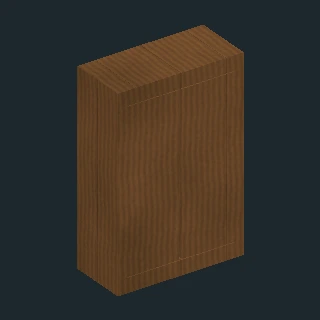
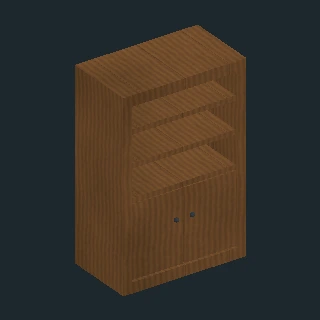
Refine thin door with knobs, deep shelved cabinet and horizontal floor slab

diff --git a/sys/android/app/src/test/java/com/example/realms/BuildCatalogTest.kt b/sys/android/app/src/test/java/com/example/realms/BuildCatalogTest.kt
@@ -6,7 +6,7 @@ class BuildCatalogTest {
         val items=BuildCatalog.entries
         assertEquals(listOf(0,1,2,3,4,5,6,7,9,10,11,8),items.map { it.nativeType })
         assertEquals(12,items.map { it.asset }.toSet().size)
-        assertEquals(listOf("Бетонный блок","Пол","Окно","Дверь","Стол","Стул","Шкаф","Диван","Деревянный блок","Кирпичный блок","Металлический блок","УАЗ-469"),items.map { it.label })
+        assertEquals(listOf("Бетонный блок","Плита (пол)","Окно","Дверь","Стол","Стул","Шкаф","Диван","Деревянный блок","Кирпичный блок","Металлический блок","УАЗ-469"),items.map { it.label })
         assertEquals(listOf(1,1,1,5,5,5,5,6,5,2,3,-1),items.map { it.defaultSurface })
         assertTrue(items.all { it.asset.startsWith("catalog/") || it.asset.startsWith("textures/") })
     }

diff --git a/sys/android/app/src/main/java/com/example/realms/BuildCatalog.kt b/sys/android/app/src/main/java/com/example/realms/BuildCatalog.kt
@@ -6,7 +6,7 @@ object BuildCatalog {
     // IDs match World::bounds and the spawn-gun selection protocol.
     val entries = listOf(
         CatalogItem(0, "Бетонный блок", "catalog/rendered/wall.webp"),
-        CatalogItem(1, "Пол", "catalog/rendered/floor.webp"),
+        CatalogItem(1, "Плита (пол)", "catalog/rendered/floor.webp"),
         CatalogItem(2, "Окно", "catalog/rendered/window.webp"),
         CatalogItem(3, "Дверь", "catalog/rendered/door.webp",5),
         CatalogItem(4, "Стол", "catalog/rendered/table.webp",5),

diff --git a/sys/android/app/src/main/cpp/ObjectMesh.h b/sys/android/app/src/main/cpp/ObjectMesh.h
@@ -11,20 +11,42 @@ inline void appendObject(std::vector<MeshVertex>&v,const sandbox::Object&o,bool 
   for(int i=0;i<o.rotation;i++){float old=x;x=z;z=-old;std::swap(w,d);}
   appendCube(v,{o.x+x,y+o.y,o.z+z,w,h,d,r,g,b,material>=0?material:o.type==4||o.type==5?sandbox::Wood:o.type==7?sandbox::Fabric:sandbox::Plain});
  };
- if(o.type==4||o.type==5){bool table=o.type==4;float w=table?1.8f:.6f,d=table?1.f:.65f,top=table?.82f:.46f;
+ // Small smooth knobs, including normals and spherical UVs, rotated with the whole object.
+ auto knob=[&](float x,float y,float z,float radius){
+  constexpr int rings=6,sides=12;
+  auto vertex=[&](int ring,int side){
+   float a=3.14159265f*ring/rings,b=6.2831853f*side/sides;
+   float nx=std::sin(a)*std::cos(b),ny=std::cos(a),nz=std::sin(a)*std::sin(b);
+   float px=x+radius*nx,pz=z+radius*nz;
+   for(int turn=0;turn<o.rotation;turn++){float old=px;px=pz;pz=-old;old=nx;nx=nz;nz=-old;}
+   return MeshVertex{o.x+px,o.y+y+radius*ny,o.z+pz,.22f,.24f,.25f,nx,ny,nz,float(side)/sides,float(ring)/rings,float(Plain)};
+  };
+  for(int r=0;r<rings;r++)for(int s=0;s<sides;s++){
+   for(auto vtx:{vertex(r,s),vertex(r+1,s),vertex(r+1,s+1),vertex(r,s),vertex(r+1,s+1),vertex(r,s+1)})v.push_back(vtx);
+  }
+ };
+ if(o.type==3){
+  part(0,1.15f,0,1.1f,2.3f,.045f,1,1,1,Wood);
+  for(int side:{-1,1}){part(.4f,1.05f,side*.035f,.075f,.14f,.025f,.22f,.24f,.25f,Plain);knob(.4f,1.05f,side*.046f,.024f);}
+ }else if(o.type==4||o.type==5){bool table=o.type==4;float w=table?1.8f:.6f,d=table?1.f:.65f,top=table?.82f:.46f;
   part(0,top,0,w,.15f,d,.54f,.4f,.27f);
   for(int a:{-1,1})for(int b:{-1,1})part(a*(w/2-.07f),top/2,b*(d/2-.07f),.1f,top,.1f,.43f,.31f,.2f);
   if(!table)part(0,.79f,-.27f,w,.6f,.12f,.54f,.4f,.27f);
  }else if(o.type==6){
-  // Cabinet carcass and separate inset doors instead of one solid cuboid.
-  part(0,.08f,0,1.4f,.16f,.65f,1,1,1,Wood);part(0,2.02f,0,1.4f,.16f,.65f,1,1,1,Wood);
-  for(int side:{-1,1}){part(side*.65f,1.05f,0,.1f,1.8f,.65f,1,1,1,Wood);part(side*.34f,1.05f,.29f,.65f,1.76f,.07f,1,1,1,Wood);}
-  part(0,1.05f,-.29f,1.2f,1.8f,.07f,1,1,1,Wood);
+  // Deep carcass with an open upper shelving bay and lower cupboard doors.
+  part(0,.06f,0,1.4f,.12f,.8f,1,1,1,Wood);part(0,2.04f,0,1.4f,.12f,.8f,1,1,1,Wood);
+  for(int side:{-1,1}){
+   part(side*.65f,1.05f,0,.1f,1.86f,.8f,1,1,1,Wood);
+   part(side*.315f,.53f,.35f,.61f,.8f,.06f,1,1,1,Wood);
+   knob(side*.09f,.62f,.39f,.025f);
+  }
+  part(0,1.05f,-.37f,1.2f,1.86f,.06f,1,1,1,Wood);
+  for(float y:{.96f,1.33f,1.69f})part(0,y,0,1.2f,.055f,.73f,1,1,1,Wood);
  }else if(o.type==2){
   for(int side:{-1,1}){part(side*.96f,1.2f,0,.08f,2.4f,.22f,.68f,.69f,.63f,sandbox::Wood);part(0,1.2f+side*1.16f,0,2,.08f,.22f,.68f,.69f,.63f,sandbox::Wood);}part(0,1.2f,0,.06f,2.4f,.2f,.68f,.69f,.63f,sandbox::Wood);part(0,1.2f,0,1.84f,2.24f,.05f,1,1,1,sandbox::Glass);
  }else if(o.type==7){part(0,.32f,0,2.3f,.6f,.95f,.33f,.4f,.36f);part(0,.78f,-.38f,2.3f,.44f,.2f,.33f,.4f,.36f);for(int a:{-1,1})part(a*1.04f,.65f,0,.22f,.4f,.95f,.33f,.4f,.36f);
  }else appendCube(v,body);
  int surface=World::fixedSurface(o.type);
- if(surface>=0)for(size_t i=begin;i<v.size();i++){v[i].layer=float(surface);v[i].r=v[i].g=v[i].b=1;}
+ if(surface>=0)for(size_t i=begin;i<v.size();i++){if(v[i].layer!=Plain||(o.type!=3&&o.type!=6)){v[i].layer=float(surface);v[i].r=v[i].g=v[i].b=1;}}
 }
 }

diff --git a/tests/native/texture_mesh_test.cpp b/tests/native/texture_mesh_test.cpp
@@ -11,9 +11,16 @@ int main() {
     for(int type:{0,9,10,11,3,4,5,6,7}){
         sandbox::Object item{type,0,0,0};item.surface=sandbox::Rust;
         std::vector<sandbox::MeshVertex> mesh;sandbox::appendObject(mesh,item);
-        assert(!mesh.empty());for(const auto&v:mesh){assert(v.layer==sandbox::World::fixedSurface(type));assert(v.r==1&&v.g==1&&v.b==1);}
+        assert(!mesh.empty());for(const auto&v:mesh){if((type==3||type==6)&&v.layer==sandbox::Plain)continue;assert(v.layer==sandbox::World::fixedSurface(type));assert(v.r==1&&v.g==1&&v.b==1);}
     }
     for(int rotation=0;rotation<4;rotation++){
+        for(int type:{3,6}){
+            sandbox::Object item{type,rotation,0,0};std::vector<sandbox::MeshVertex> mesh;sandbox::appendObject(mesh,item);
+            auto bounds=sandbox::World::bounds(item);int metal=0;
+            for(const auto&v:mesh){assert(std::abs(v.x)<=bounds.w/2+.0001f&&std::abs(v.z)<=bounds.d/2+.0001f);assert(v.y>=-.0001f&&v.y<=bounds.h+.0001f);if(v.layer==sandbox::Plain)metal++;}
+            assert(metal>400);if(type==6)assert(mesh.size()>9*36);
+        }
+
         sandbox::Object window{2,rotation,0,0};window.surface=sandbox::Brick;
         std::vector<sandbox::MeshVertex> mesh;sandbox::appendObject(mesh,window);
         int frame=0,glass=0;for(const auto&v:mesh){if(v.layer==sandbox::Wood)frame++;if(v.layer==sandbox::Glass)glass++;}

diff --git a/tests/native/indoor_placement_test.cpp b/tests/native/indoor_placement_test.cpp
@@ -12,6 +12,14 @@ int main(){
  auto b=sandbox::World::bounds(*wall);assert(wall->y>=-.001f&&wall->y+b.h<=3.001f);
  assert(std::abs(b.z-b.d/2+4)<.001f);
  for(int type:{9,10}){w.selected=type;auto block=sandbox::RaycastPlacement::preview(w,room,built,lo,hi);assert(block&&block->surface==sandbox::World::fixedSurface(type));}
+ // A floor slab aimed at a vertical wall stays 3 x 3 x .18, in every yaw.
+ w.selected=1;
+ for(int rotation=0;rotation<4;rotation++){
+  w.rotation=rotation;auto slab=sandbox::RaycastPlacement::preview(w,room,built,lo,hi);assert(slab&&slab->anchored);
+  auto flat=sandbox::World::bounds(*slab);assert(flat.h==.18f&&flat.w==3&&flat.d==3);
+  assert(slab->tiltX==0&&slab->tiltZ==0&&std::abs(flat.z-flat.d/2+4)<.001f);
+ }
+ w.rotation=0;
  // Ceiling attachment at less than two metres works; it does not drop when dynamics run.
  w.selected=1;w.pitch=1.3f;auto ceiling=sandbox::RaycastPlacement::preview(w,room,built,lo,hi);assert(ceiling&&ceiling->anchored);
  assert(std::abs(ceiling->y+.18f-3)<.001f);w.objects.push_back(*ceiling);

diff --git a/sys/android/app/src/main/cpp/Renderer.cpp b/sys/android/app/src/main/cpp/Renderer.cpp
@@ -348,7 +348,8 @@ void Renderer::render(){
   if(int(i)==tools_.held){auto visual=world_.objects[i];visual.x=tools_.display.x;visual.z=tools_.display.z;size_t begin=vertices.size();sandbox::appendObject(vertices,visual);float dy=tools_.display.y-sandbox::World::bounds(visual).y;for(size_t j=begin;j<vertices.size();j++)vertices[j].y+=dy;}
   else sandbox::appendObject(vertices,world_.objects[i]);
   if(int(i)!=tools_.held){const auto&o=world_.objects[i];auto b=sandbox::World::bounds(o);
-   float cx=std::cos(o.tiltX),sx=std::sin(o.tiltX),cz=std::cos(o.tiltZ),sz=std::sin(o.tiltZ);
+   float tiltX=o.type==1?0:o.tiltX,tiltZ=o.type==1?0:o.tiltZ;
+   float cx=std::cos(tiltX),sx=std::sin(tiltX),cz=std::cos(tiltZ),sz=std::sin(tiltZ);
    for(size_t j=objectBegin;j<vertices.size();j++){auto &v=vertices[j];float x=v.x-b.x,y=v.y-b.y,z=v.z-b.z;float py=cx*y-sx*z,pz=sx*y+cx*z;v.x=b.x+cz*x-sz*py;v.y=b.y+sz*x+cz*py;v.z=b.z+pz;
     float ny=cx*v.ny-sx*v.nz,nz=sx*v.ny+cx*v.nz;float nx=cz*v.nx-sz*ny;v.ny=sz*v.nx+cz*ny;v.nx=nx;v.nz=nz;}
   }

diff --git a/sys/android/app/src/main/cpp/SandboxWorld.h b/sys/android/app/src/main/cpp/SandboxWorld.h
@@ -43,7 +43,7 @@ public:
         }
     }
     static Box bounds(const Object &o) {
-        static const float dims[12][3]={{3,2.8f,.25f},{3,.18f,3},{2,2.4f,.22f},{1.1f,2.3f,.18f},{1.8f,.9f,1},{.6f,1.05f,.65f},{1.4f,2.1f,.65f},{2.3f,1,.95f},{4.025f,1.92485f,1.89738f},{3,2.8f,.25f},{3,2.8f,.25f},{3,2.8f,.25f}};
+        static const float dims[12][3]={{3,2.8f,.25f},{3,.18f,3},{2,2.4f,.22f},{1.1f,2.3f,.14f},{1.8f,.9f,1},{.6f,1.05f,.65f},{1.4f,2.1f,.84f},{2.3f,1,.95f},{4.025f,1.92485f,1.89738f},{3,2.8f,.25f},{3,2.8f,.25f},{3,2.8f,.25f}};
         auto p=dims[o.type];
         return {o.x,o.y+p[1]/2,o.z,o.rotation%2?p[2]:p[0],p[1],o.rotation%2?p[0]:p[2],.5f,.43f,.32f,o.type==9?Wood:o.type==10?Brick:o.type<=1?Concrete:Plain};
     }

diff --git a/sys/android/app/src/main/cpp/RaycastPlacement.h b/sys/android/app/src/main/cpp/RaycastPlacement.h
@@ -30,6 +30,8 @@ public:
   float extent=std::abs(hit.normal.x)*b.w/2+std::abs(hit.normal.y)*b.h/2+std::abs(hit.normal.z)*b.d/2;
   auto center=hit.position+hit.normal*(extent+.0005f);
   candidate.x=center.x;candidate.z=center.z;candidate.y=center.y-b.h/2;
+  // Floor orientation is world-horizontal, never aligned to a wall hit normal.
+  if(candidate.type==1){candidate.tiltX=0;candidate.tiltZ=0;}
   candidate.anchored=candidate.type!=8;candidate.surface=World::fixedSurface(candidate.type);
   if(!valid(w,candidate,city,built,lo,hi)){
    // Slide the box ALONG the hit plane to fit under ceilings/next to corners.

diff --git a/sys/android/DOOR_CABINET_SLAB_RU.md b/sys/android/DOOR_CABINET_SLAB_RU.md
@@ -1,0 +1,11 @@
+# v0.22 — дверь, шкаф, плита
+
+Только геометрия двери/шкафа и фиксация плиты. Стол, стул, диван, УАЗ и их превью не изменены.
+
+Дверное полотно 4.5 см вместо прежней сплошной панели 18 см; с двух сторон добавлены металлические накладки и сферические ручки возле бокового края. Общая коллизионная глубина 14 см учитывает ручки. Металл ручек не перекрашивается в дерево.
+
+Шкаф: корпус глубиной 80 см, отдельные боковины/задняя стенка, три полки. Верхняя секция открытая: полки действительно видны, а не спрятаны за сплошной панелью. Внизу две дверцы с металлическими ручками. Общая консервативная коллизия 84 см учитывает выступ ручек; ходить внутрь шкафа нельзя. Дверь/шкаф автоматически обновляются и в старых сохранениях, координаты предметов не меняются. Более глубокий старый шкаф может потребовать перестановки при тесном размещении.
+
+«Пол» переименован в «Плита (пол)», чтобы отличать от вертикального бетонного блока. Её bounds уже были горизонтальными 3 x 0.18 x 3 м и не поворачивались на стену. Добавлена явная фиксация нулевого наклона в размещении и отрисовке, включая старые состояния после динамики. У стены плита остаётся горизонтальной площадкой, не падает как незакреплённый предмет. Вертикальные стеновые блоки не превращены в пол насильно.
+
+Перегенерированы только превью двери/шкафа из игровых мешей. Тесты проверяют ручки, границы во всех поворотах, фиксированные материалы и горизонтальную установку плиты на вертикальную стену в четырёх поворотах. На телефоне ещё не проверено.
